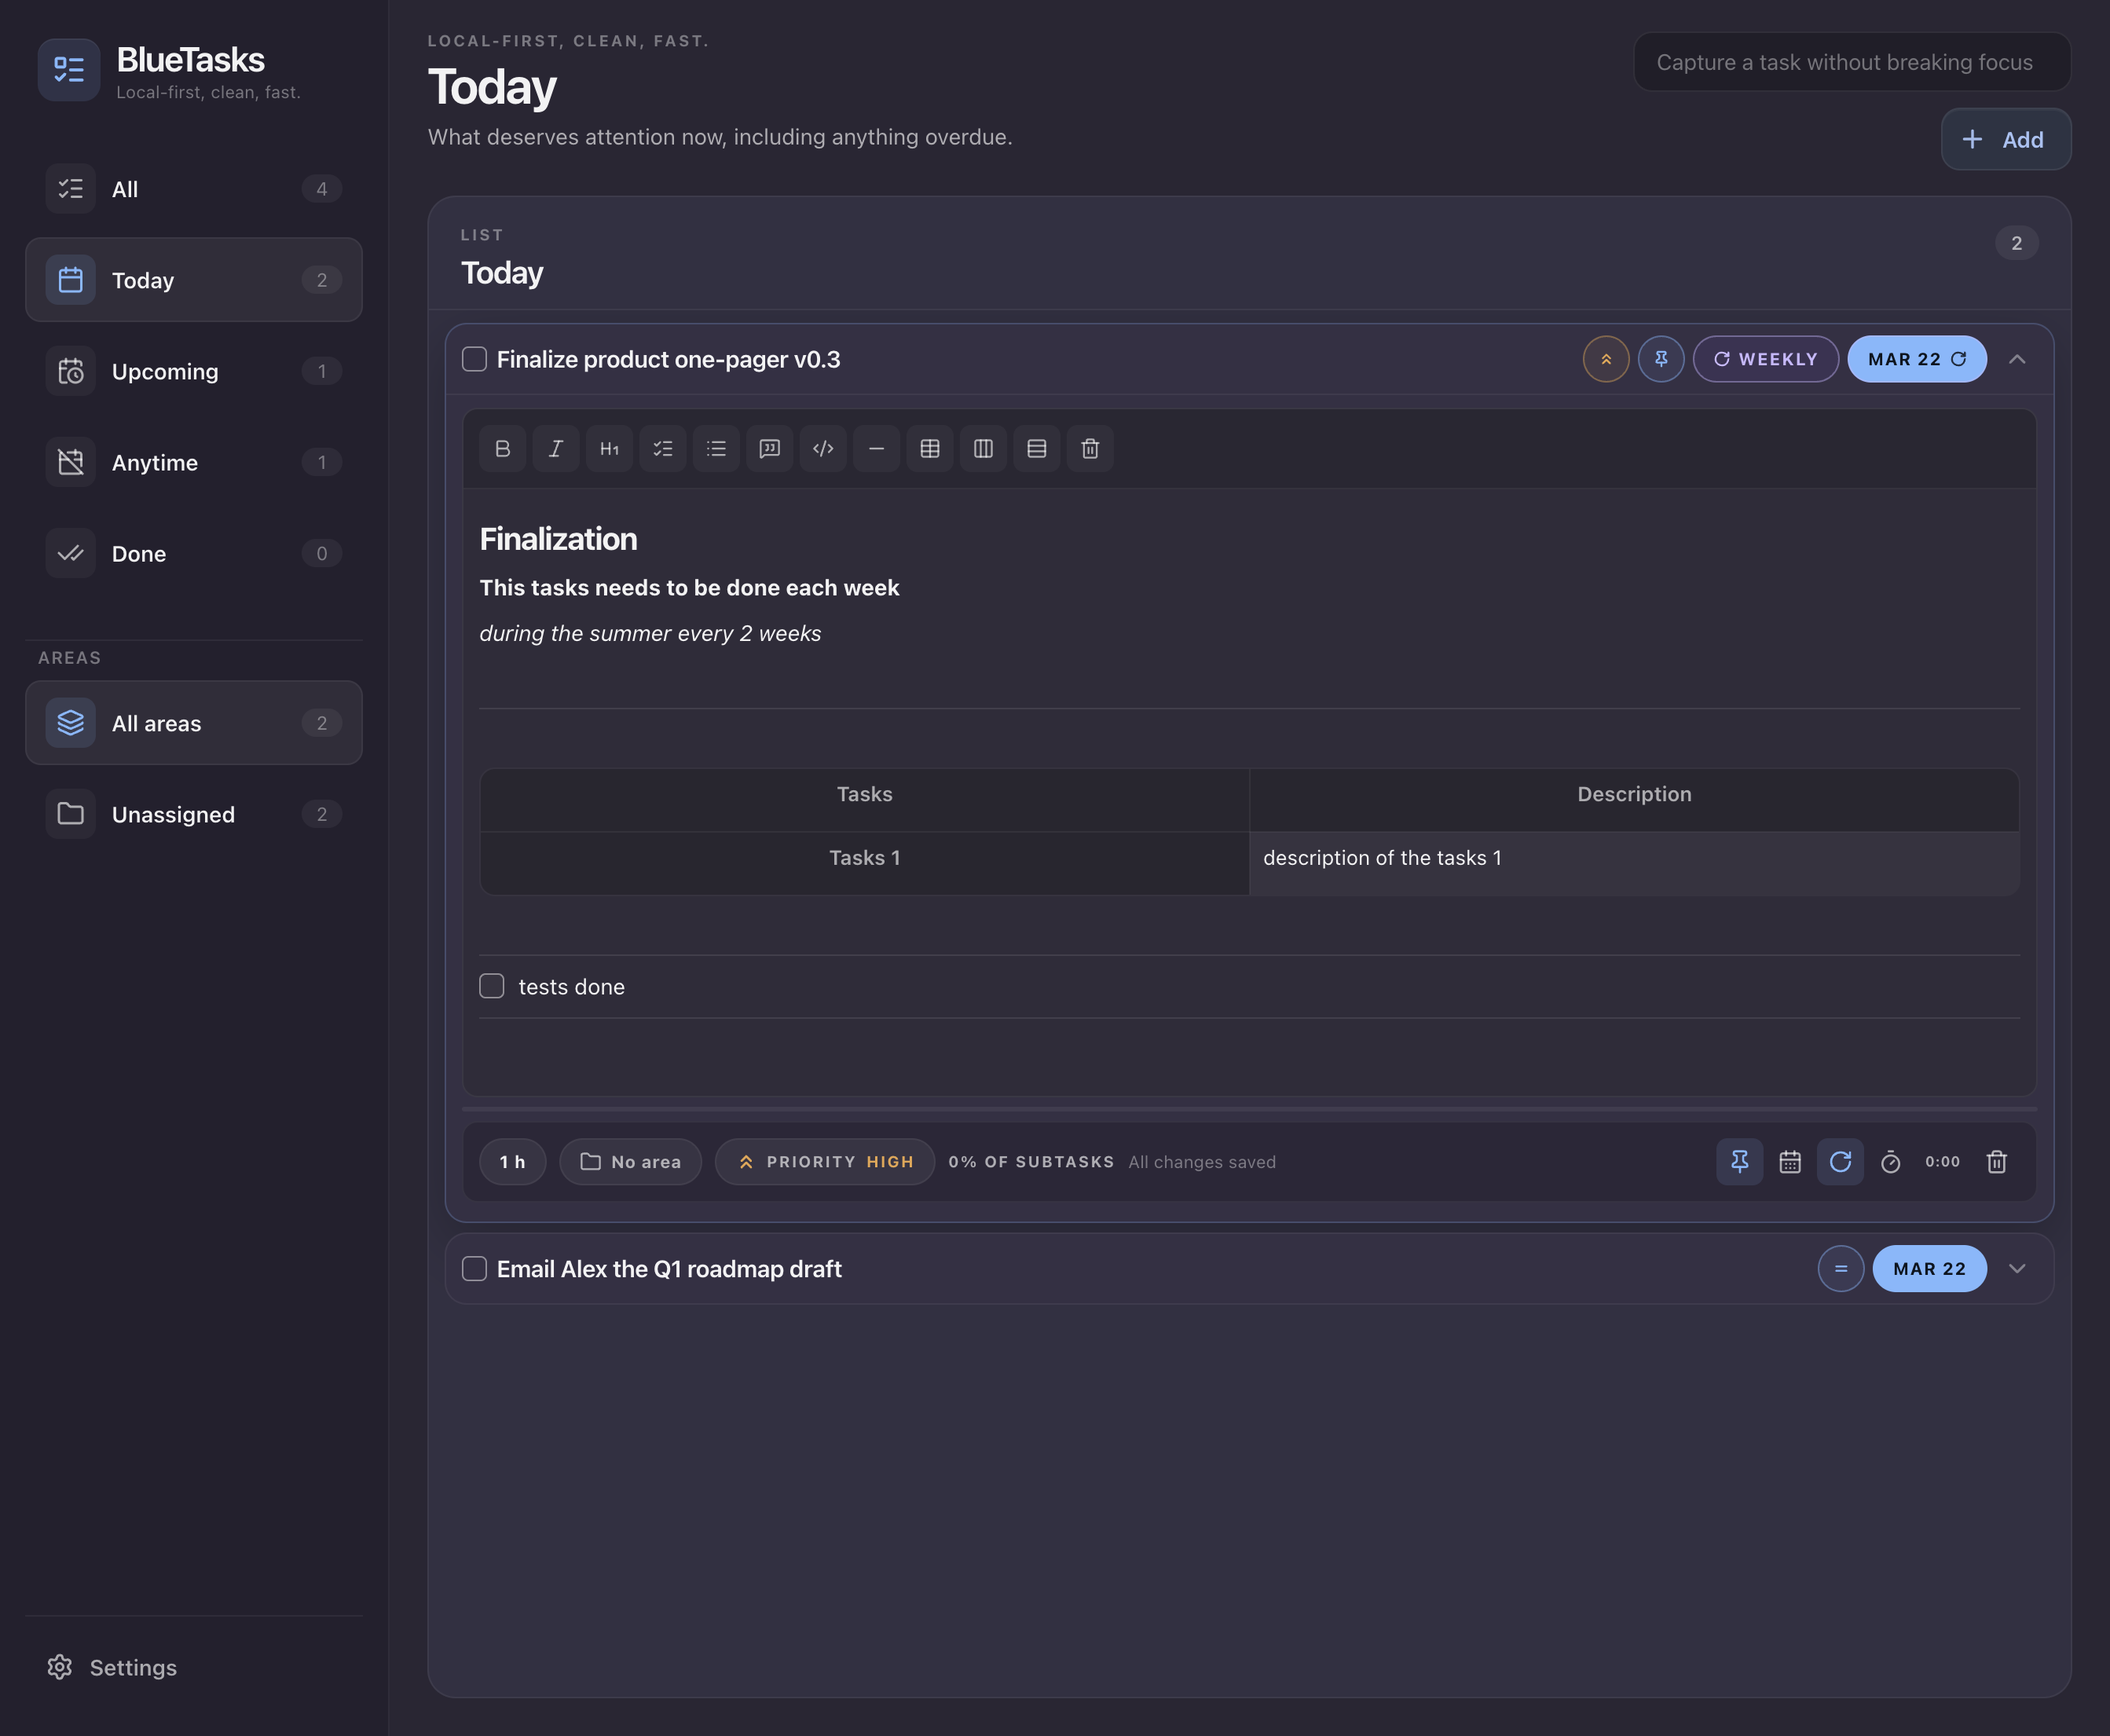
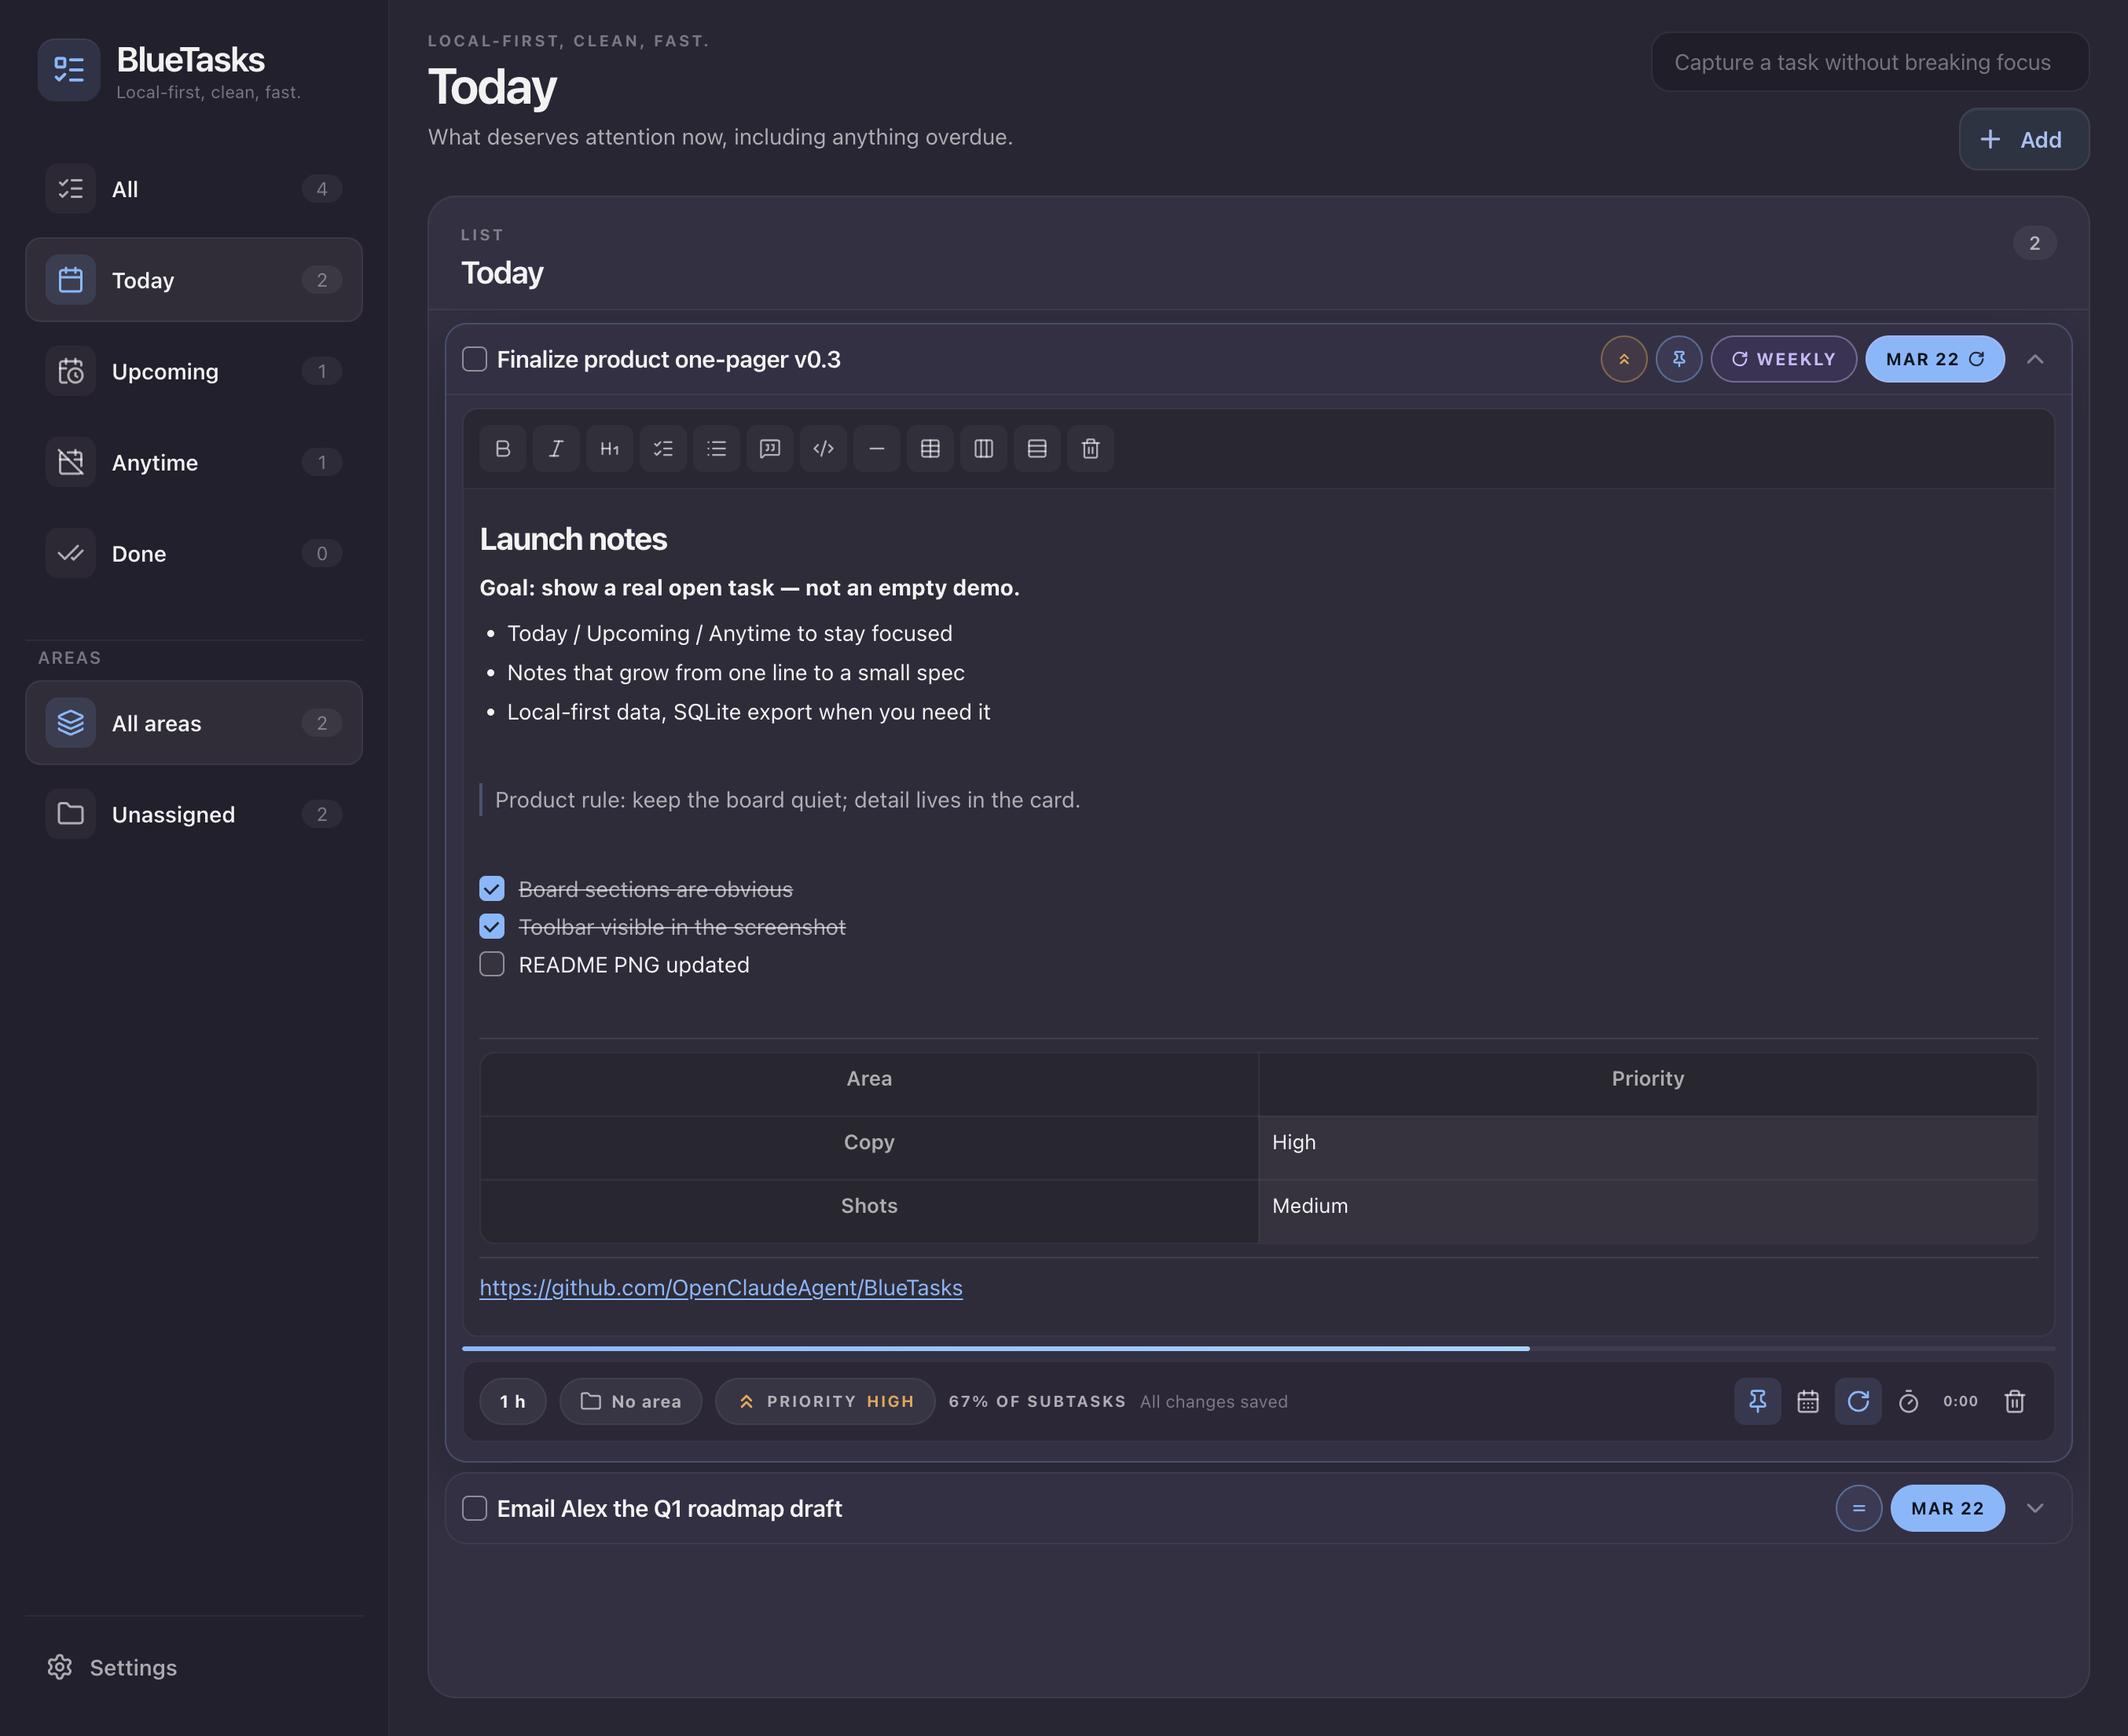
docs: restore CI badges, add desktop badge, refresh readme-04 screenshot
Made-with: Cursor

diff --git a/README.md b/README.md
@@ -114,5 +114,4 @@ Optional: `web/app/.env` with `VITE_API_ORIGIN=https://your-api` (no trailing sl
 
 ---
 
-[CI](https://github.com/OpenClaudeAgent/BlueTasks/actions/workflows/ci.yml)
-[Docker image](https://github.com/OpenClaudeAgent/BlueTasks/actions/workflows/docker-publish.yml)
+[![CI](https://github.com/OpenClaudeAgent/BlueTasks/actions/workflows/ci.yml/badge.svg)](https://github.com/OpenClaudeAgent/BlueTasks/actions/workflows/ci.yml) [![Docker image](https://github.com/OpenClaudeAgent/BlueTasks/actions/workflows/docker-publish.yml/badge.svg)](https://github.com/OpenClaudeAgent/BlueTasks/actions/workflows/docker-publish.yml) [![Desktop app](https://github.com/OpenClaudeAgent/BlueTasks/actions/workflows/desktop-publish.yml/badge.svg)](https://github.com/OpenClaudeAgent/BlueTasks/actions/workflows/desktop-publish.yml)
